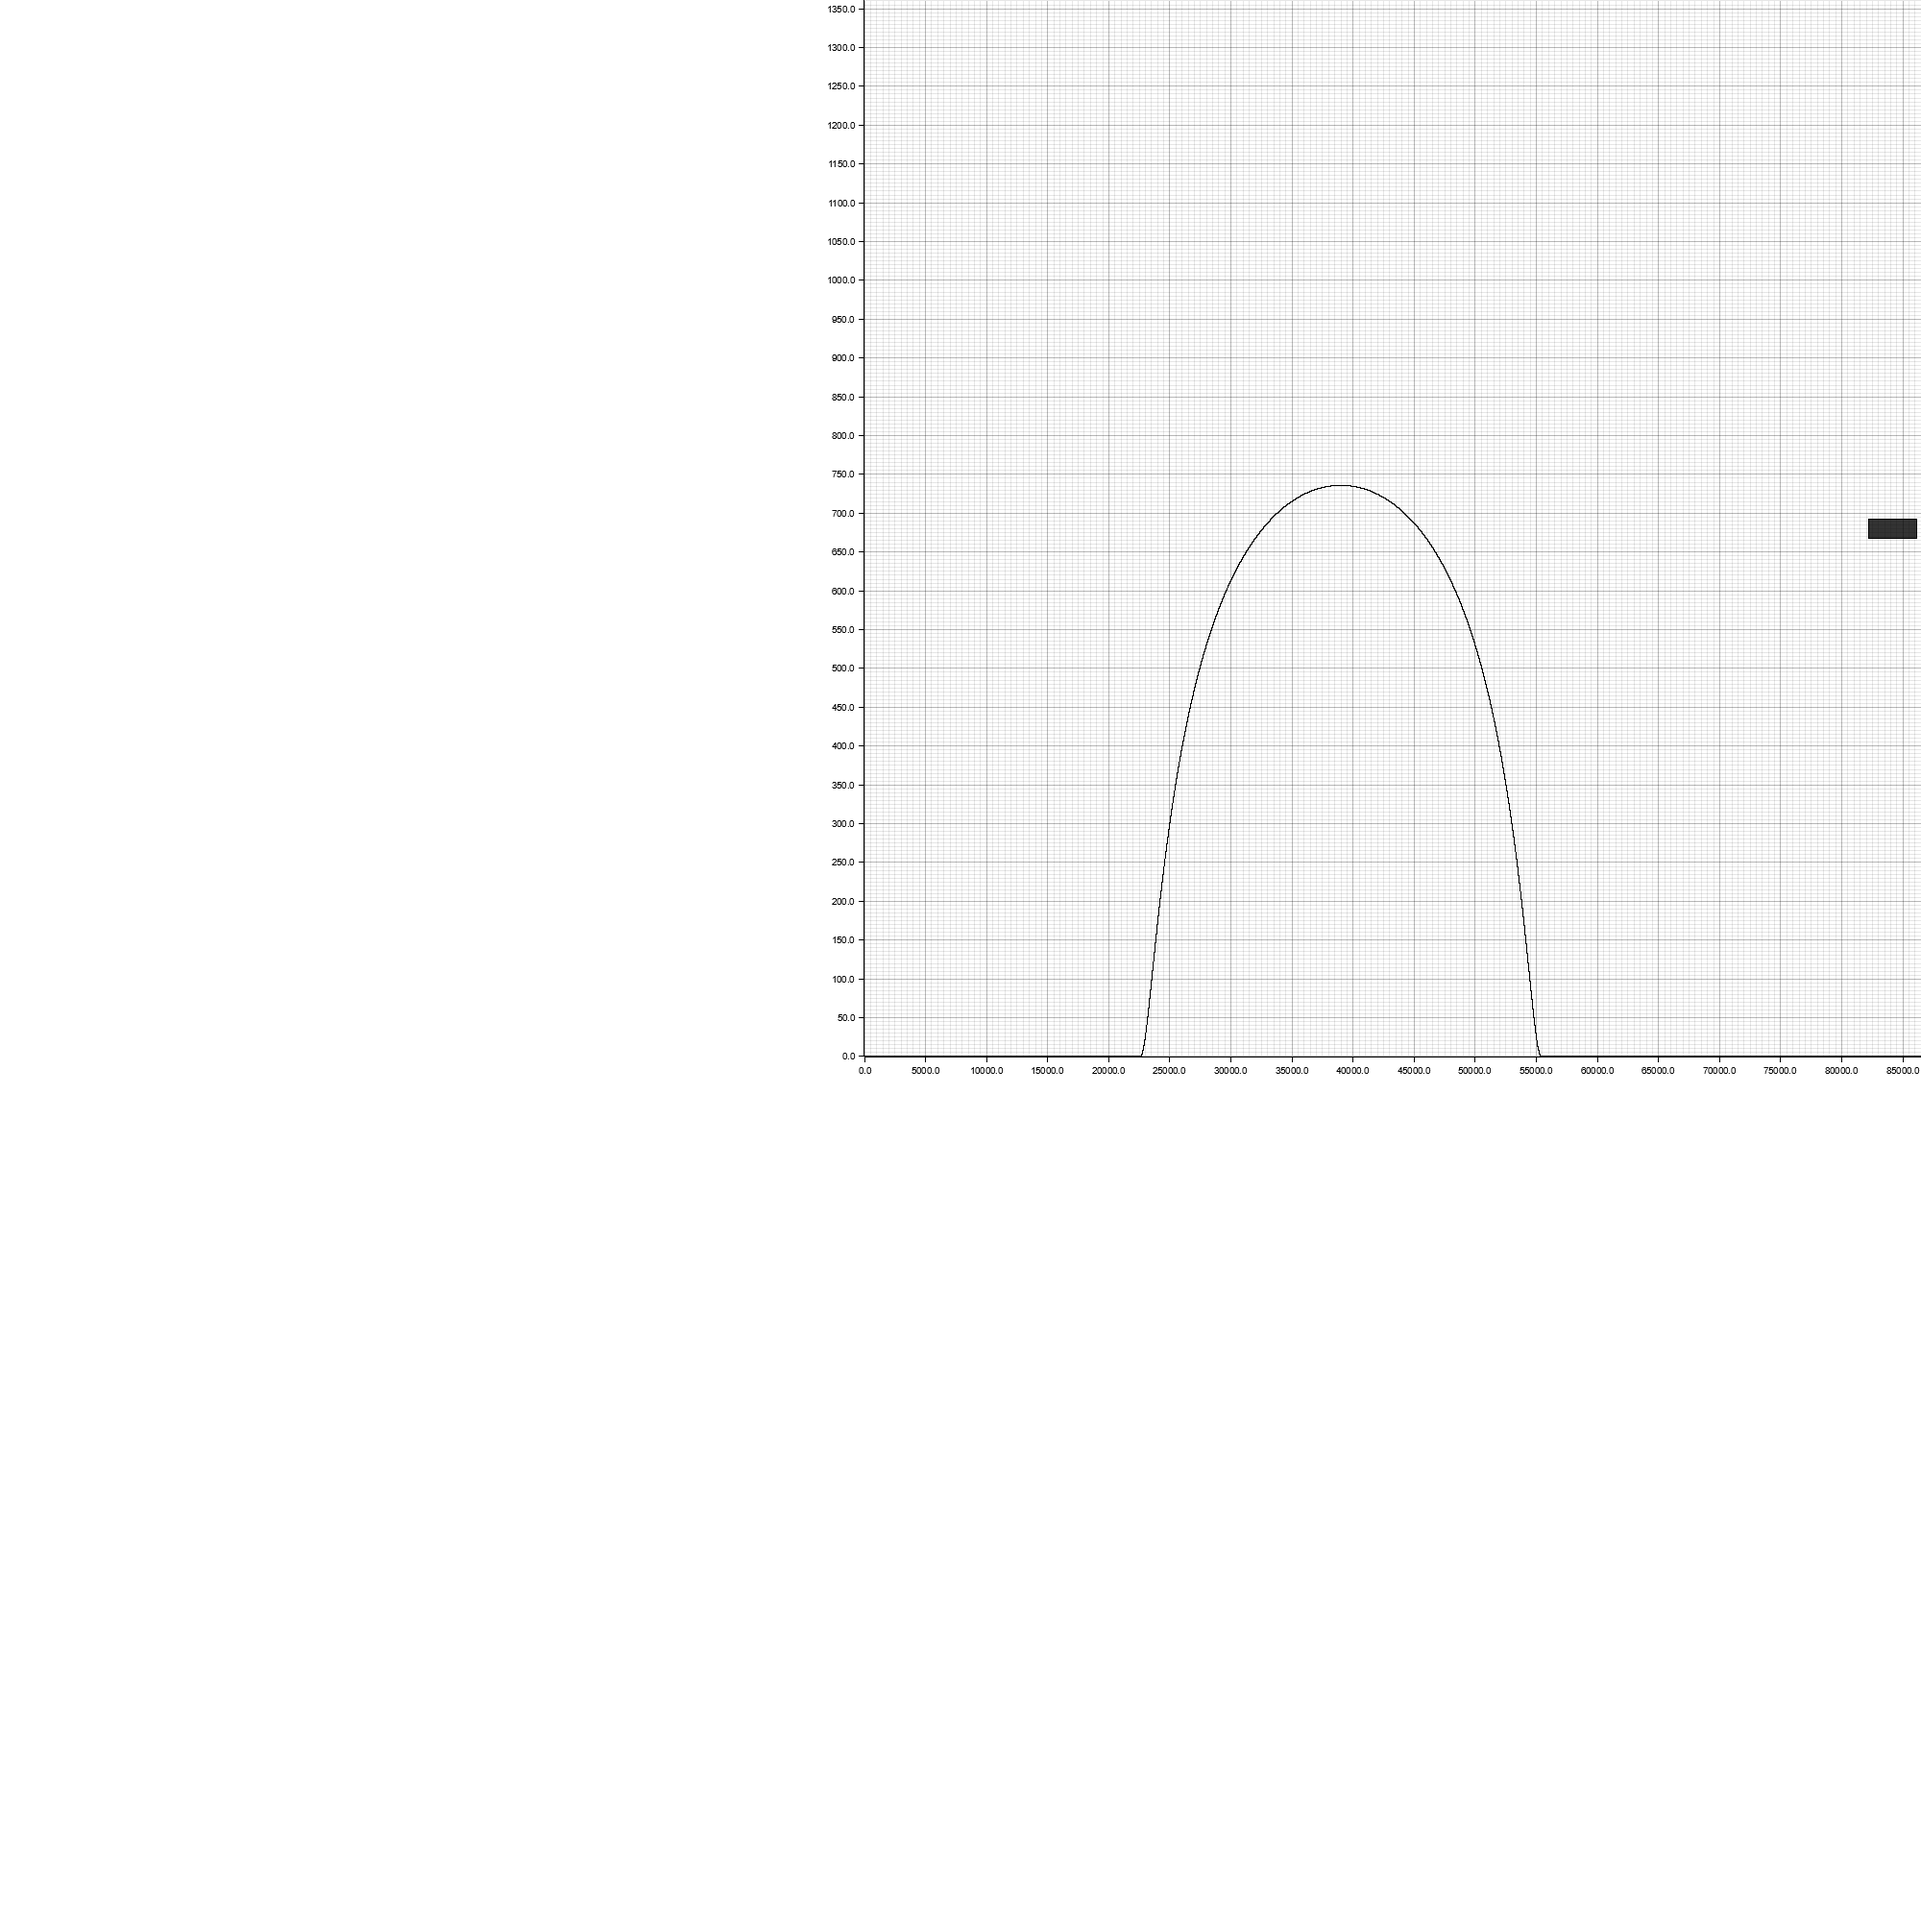
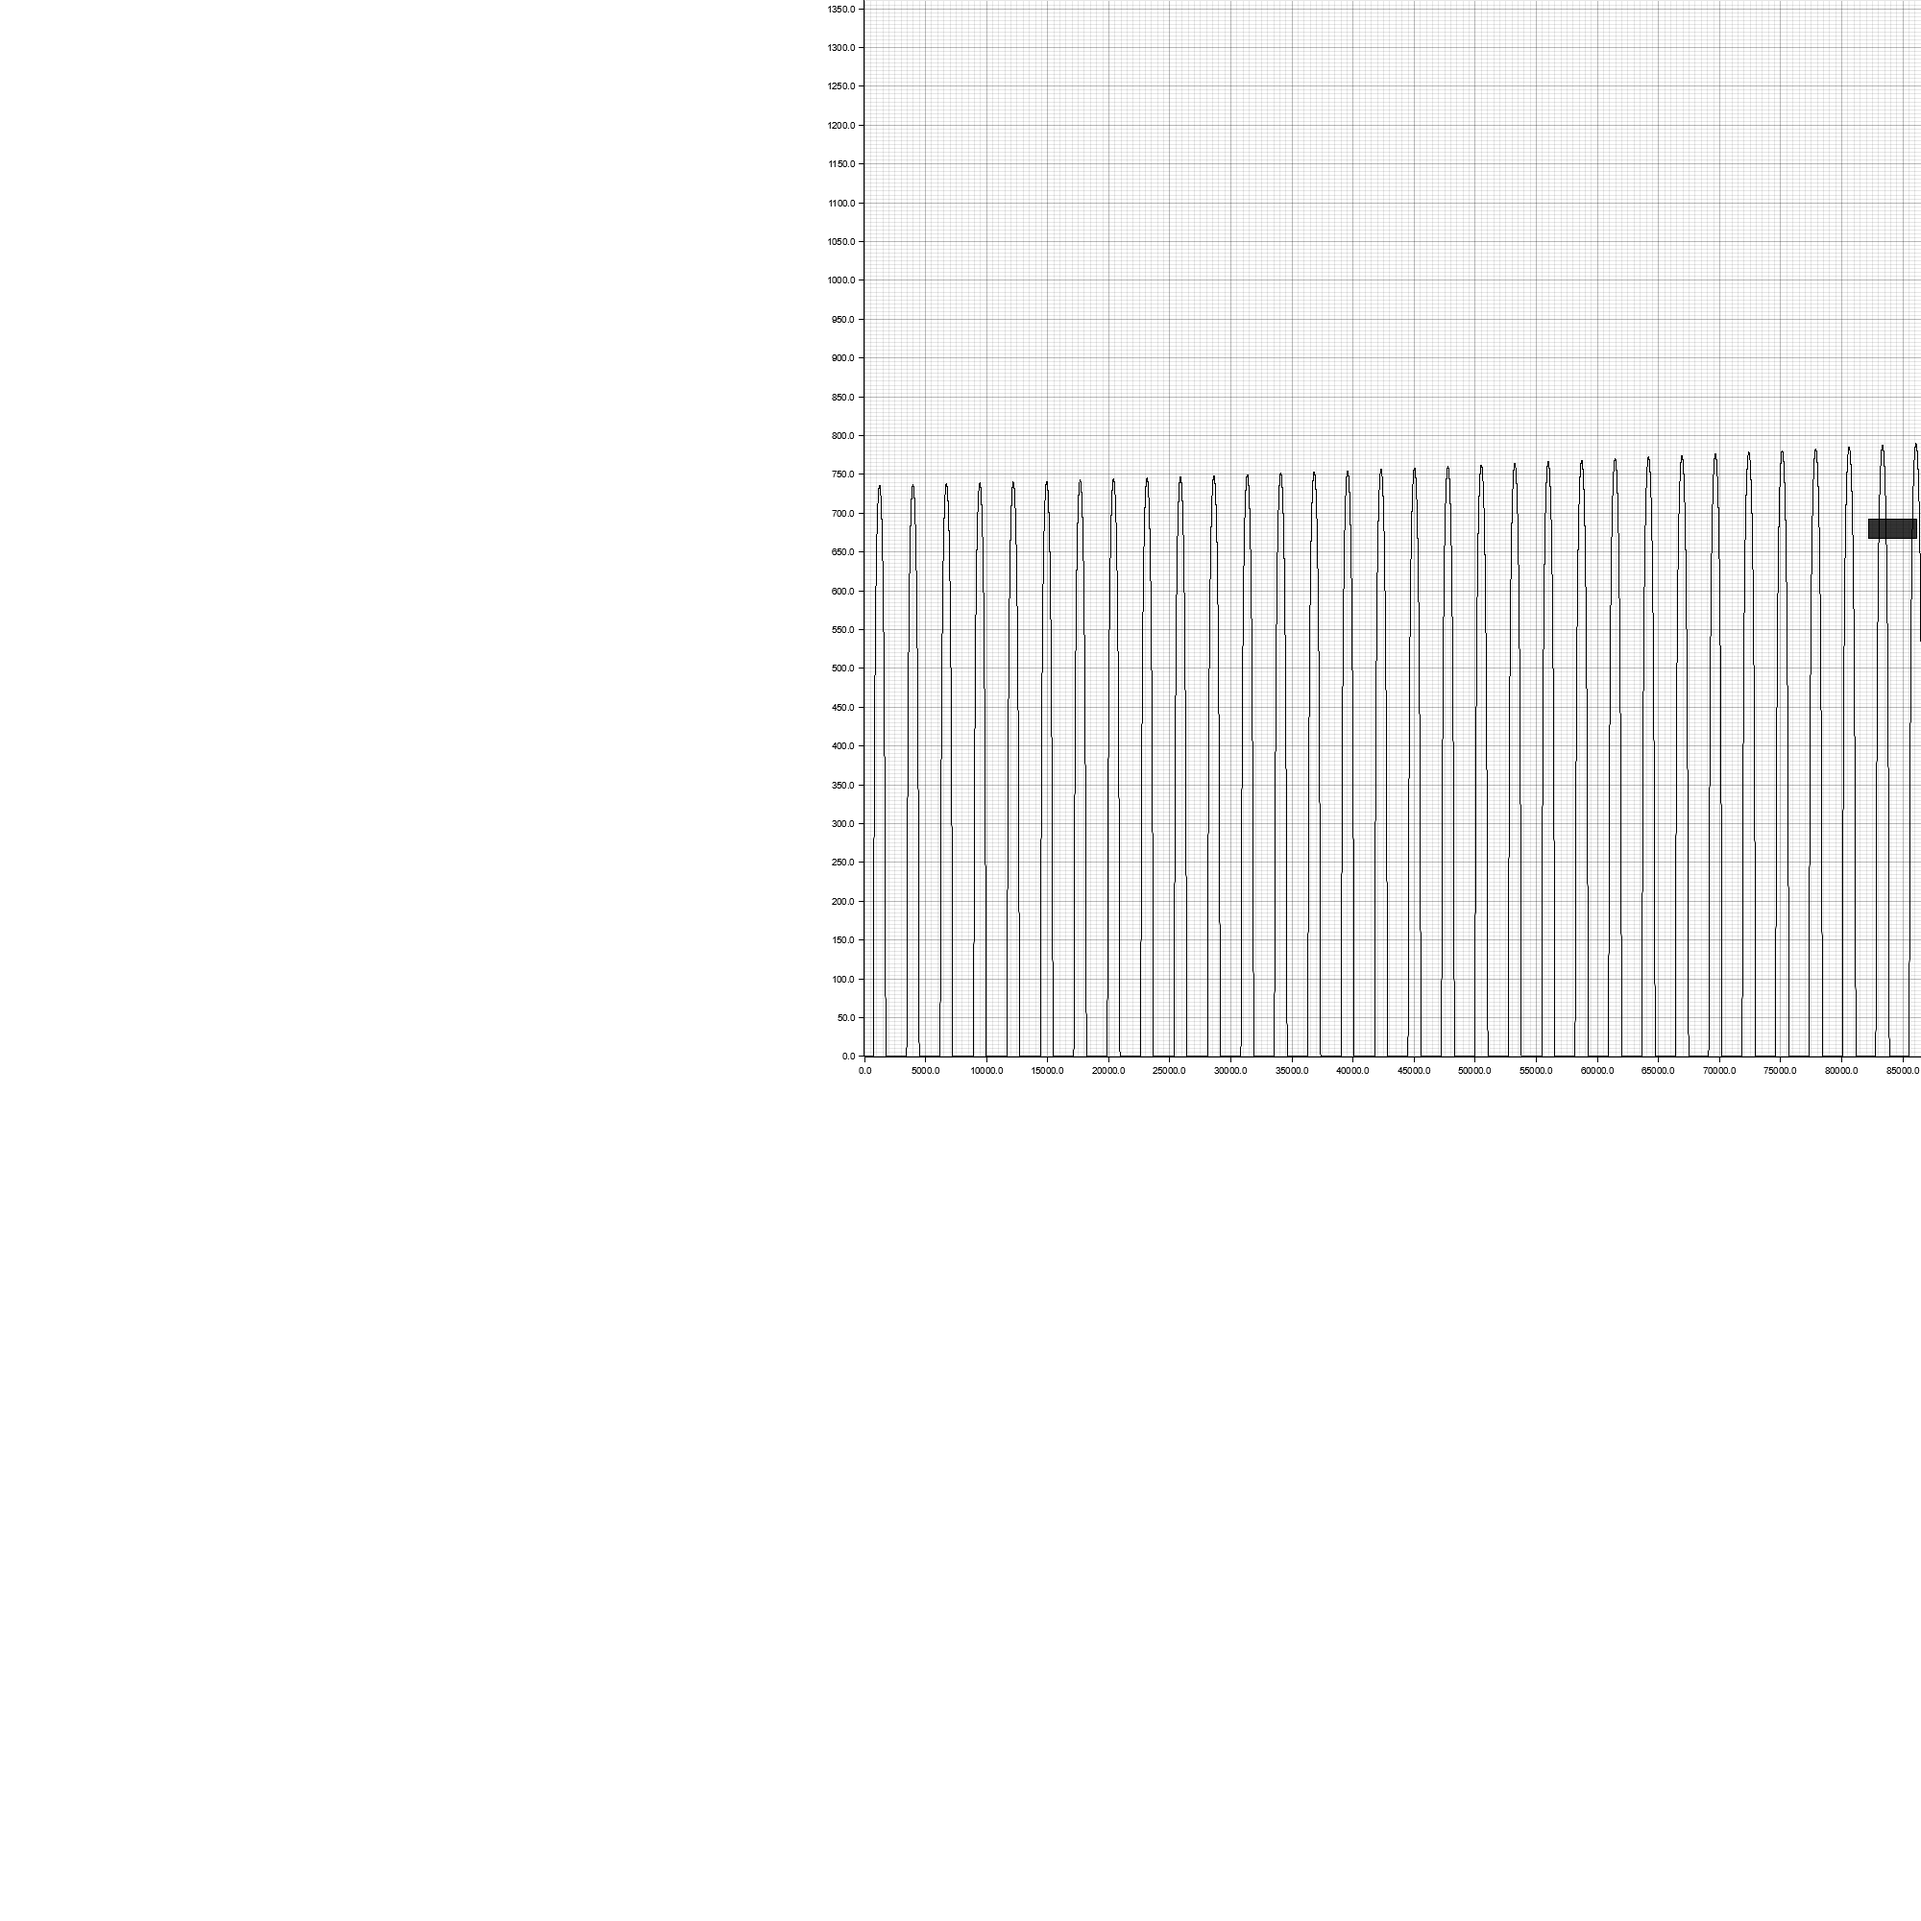
modified formatting

Changed region(s): [[0.992, 0.248, 1.0, 0.341]]

diff --git a/src/main.rs b/src/main.rs
@@ -45,9 +45,9 @@ fn main() -> ()  { //Result<(), Box<dyn std::error::Error>>
         sp.eq_of_time_minutes, sp.minutes_past_midnight, sp.true_solar_time, sp.hour_angle,sp.solar_zenith_angle,sp.elev_angle,
         sp.azimuth_angle, sp.sunup);
 
-    println!("refraction angle: {}, Reflectance: {}, solar radiation: {}",sp.refracted().to_degrees(), sp.reflection(), sp.solar_radiation());
+    println!("refraction angle: {}, Reflectance: {}, solar radiation: {}",sp.refracted().to_degrees(), sp.reflectance(), sp.solar_radiation());
         let dates = get_dt_range(datetime!(2010-01-01 00:00:00), datetime!(
-        2010-01-02 00:00:00), 86400);
+        2012-01-02 00:00:00), 2000000);
     
 
     let mut positions:Vec<SunPosition> = Vec::with_capacity(dates.len());
@@ -58,7 +58,7 @@ fn main() -> ()  { //Result<(), Box<dyn std::error::Error>>
     };
 
     let mut elev_angle:Vec<f64> = Vec::with_capacity(positions.capacity());
-   for position in positions.iter(){
+    for position in positions.iter(){
         elev_angle.push(position.elev_angle)
    }
 
@@ -83,32 +83,6 @@ fn main() -> ()  { //Result<(), Box<dyn std::error::Error>>
 
    let _ = plot("./radiation.png", 2000,2000,radvec, 0.0..86400.0, 0.0..1360.0);
 
-//     let root = BitMapBackend::new("./test.png", 
-//     (10000, 2000)).into_drawing_area();
-//     root.fill(&WHITE)?;
-//     let mut chart = ChartBuilder::on(&root)
-//         .x_label_area_size(900)
-//         .y_label_area_size(900)
-//         .build_cartesian_2d(0f64..1000000f64, -180f64..180f64)?;
-
-//     chart
-//         .configure_mesh()
-//         .x_labels(30)
-//         .y_labels(30)
-//         .draw()?;
-
-//     chart
-//         .draw_series(LineSeries::new(points, &BLACK))?;
-
-//     chart
-//         .configure_series_labels()
-//         .background_style(BLACK.mix(0.8))
-//         .border_style(BLACK)
-//         .draw()?;
-
-//     root.present()?;
-
-//     Ok(())
 }
  
 struct SunPosition{
@@ -136,22 +110,22 @@ impl SunPosition{
     }}
 
     
-    fn reflection(&self) -> f64{ //the model doesn't work if your ZA is greater than 90. Need some logic to handle. 
+    fn reflectance(&self) -> f64{ //the model doesn't work if your ZA is greater than 90. Need some logic to handle. 
         
         match self.sunup{ 
 
             true =>
             {
-            let angle:f64 = self.solar_zenith_angle.to_radians();
-            let n_i = 1.000;
-            let n_t = 1.333;
-            let r_s: f64 = ((n_i * angle.cos()) - (n_t * self.refracted().cos())) / ((n_i*angle.cos()) + (n_t*self.refracted().cos()));
-            let r_p: f64 = ((n_i*self.refracted().cos()) - (n_t*angle.cos())) / ((n_i*self.refracted().cos()) + (n_t * angle.cos()));
-            let r: f64 = 0.5 * (r_s + r_p);
-            let reflectance:f64 = r.powi(2);
-            reflectance
+                let angle:f64 = self.solar_zenith_angle.to_radians();
+                let n_i = 1.000;
+                let n_t = 1.333;
+                let r_s: f64 = ((n_i * angle.cos()) - (n_t * self.refracted().cos())) / ((n_i*angle.cos()) + (n_t*self.refracted().cos()));
+                let r_p: f64 = ((n_i*self.refracted().cos()) - (n_t*angle.cos())) / ((n_i*self.refracted().cos()) + (n_t * angle.cos()));
+                let r: f64 = 0.5 * (r_s + r_p);
+                let reflectance:f64 = r.powi(2);
+                reflectance
 
-        },
+                },
 
             false => {0.0}}
     }
@@ -389,14 +363,14 @@ fn plot(path:&str, dimx:u32, dimy:u32, datavec:Vec<(f64,f64)>, xcart:Range<f64>,
 
 }
 
-//Next item of business: calculate the heating which happens for the radiation - start in 1-d w/ a control surface
-// also: setting up the box model for the lake
-// also: refraction Done✅
-// also: reflection from the surface Done ✅
+//Next item of business: 
+// setting up the box model for the lake
+// refraction Done✅
+// reflection from the surface Done ✅
 
 
 //A lot of this stuff depends on the same fixed sun position parameters. It would be ideal to
 //get all the sun params into a unified position in memory and then access all of it from each
 //function as a thread. This would make it a lot faster to calculate the later steps. 
 
-//TODO: Put the attributes you want in a giant polars table
+//TODO: Put the attributes you want into a polars table
